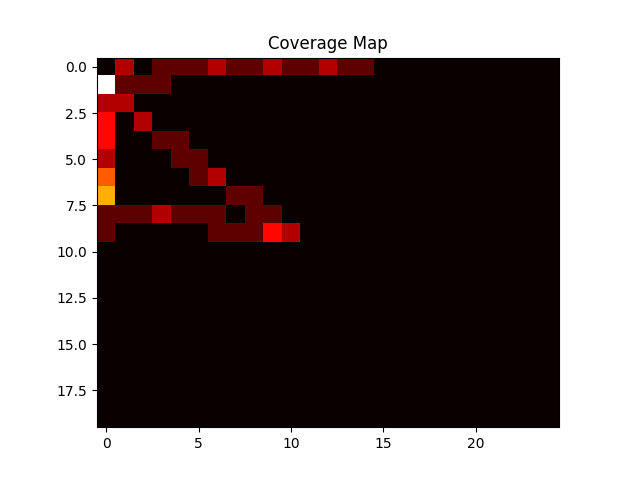
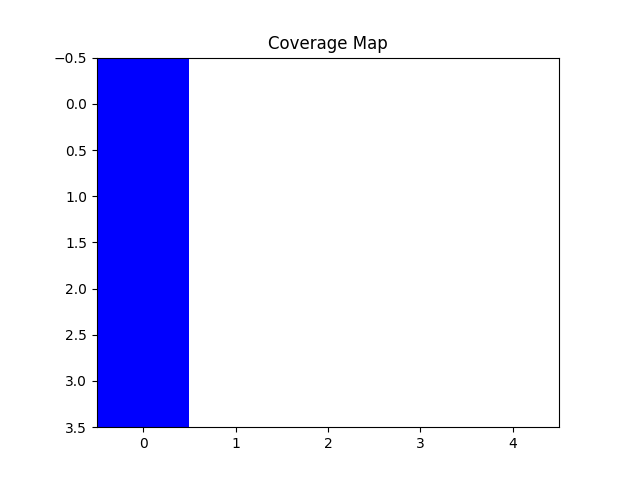
h

diff --git a/main.py b/main.py
@@ -101,30 +101,29 @@ def one_step(x, y, vx, vy, dt):
     return x, y, vx, vy
 
 
-time_limit = 20  # 10 minutes (adjust as needed)
+time_limit = 15  # 10 minutes (adjust as needed)
 
-# Define the grid size for the coverage map
-coverage_grid_size = 5  # Each square meter divided into a 5x5 grid
+# Load the map from the "simple.csv" file
+current_directory = os.getcwd()
+path = os.path.join(current_directory, "simple.csv")
+map = read_csv_map(path)
 
-def update_coverage_map(coverage_map, x, y):
-    coverage_map[y][x] += 1
+# Determine the grid size for the coverage map
+coverage_rows = len(map)
+coverage_cols = len(map[0])
 
-def calculate_coverage_percentage(coverage_map):
-    total_pixels = coverage_map.size
-    visited_pixels = np.count_nonzero(coverage_map)
-    coverage_percentage = (visited_pixels / total_pixels) * 100
-    return coverage_percentage
+def update_coverage_map(coverage_map, x, y, prev_x, prev_y):
+    if x != prev_x or y != prev_y:
+        coverage_map[min(y, prev_y):max(y, prev_y) + 1, min(x, prev_x):max(x, prev_x) + 1] = 1
 
-# Create the coverage map with the same dimensions as the map, divided into a grid
-coverage_rows = len(map) * coverage_grid_size
-coverage_cols = len(map[0]) * coverage_grid_size
+# Create the coverage map as a binary grid (0 or 1)
 coverage_map = np.zeros((coverage_rows, coverage_cols), dtype=int)
-
-# Create a list to store the robot's trace
-trace = []
 
 # Get the start time
 start_time = time.time()
+
+x0, y0 = find_start_cor(map)
+prev_x, prev_y = x0, y0
 
 # Continue until the time limit is reached or coverage is complete
 while True:
@@ -133,32 +132,23 @@ while True:
     if elapsed_time >= time_limit:
         break
 
-    x0, y0, vx, vy = one_step(x0, y0, vx, vy, dt)
+    vx, vy = get_velocity()
+    x0, y0 = one_step(x0, y0, vx, vy, time_limit)
     
-    x_pixel, y_pixel = int(x0 * coverage_grid_size), int(y0 * coverage_grid_size)
+    x_pixel, y_pixel = int(x0), int(y0)
     if 0 <= x_pixel < coverage_cols and 0 <= y_pixel < coverage_rows:
-        update_coverage_map(coverage_map, x_pixel, y_pixel)
+        update_coverage_map(coverage_map, x_pixel, y_pixel, prev_x, prev_y)
     
-    trace.append((x0, y0))  # Update the trace list with the current position
+    prev_x, prev_y = x_pixel, y_pixel
 
     plt.figure()
-    plt.imshow(coverage_map, cmap='hot', origin='upper', aspect='equal')
+    plt.imshow(coverage_map, cmap=ListedColormap(['white', 'blue']), origin='upper', aspect='equal')
     plt.title("Coverage Map")
-    plt.savefig("c.png")
     plt.pause(0.1)
-
-# Calculate the coverage percentage
-coverage_percentage = calculate_coverage_percentage(coverage_map)
-print(f"Coverage Percentage: {coverage_percentage:.2f}%")
 
 # Save the final coverage map as an image
 plt.figure()
-plt.imshow(coverage_map, cmap='hot', origin='upper', aspect='equal')
+plt.imshow(coverage_map, cmap=ListedColormap(['white', 'blue']), origin='upper', aspect='equal')
 plt.title("Final Coverage Map")
 plt.savefig("final_coverage_map.png")
 plt.show()
-
-# Save the trace list to a file
-with open("robot_trace.txt", "w") as trace_file:
-    for point in trace:
-        trace_file.write(f"{point[0]}, {point[1]}\n")
